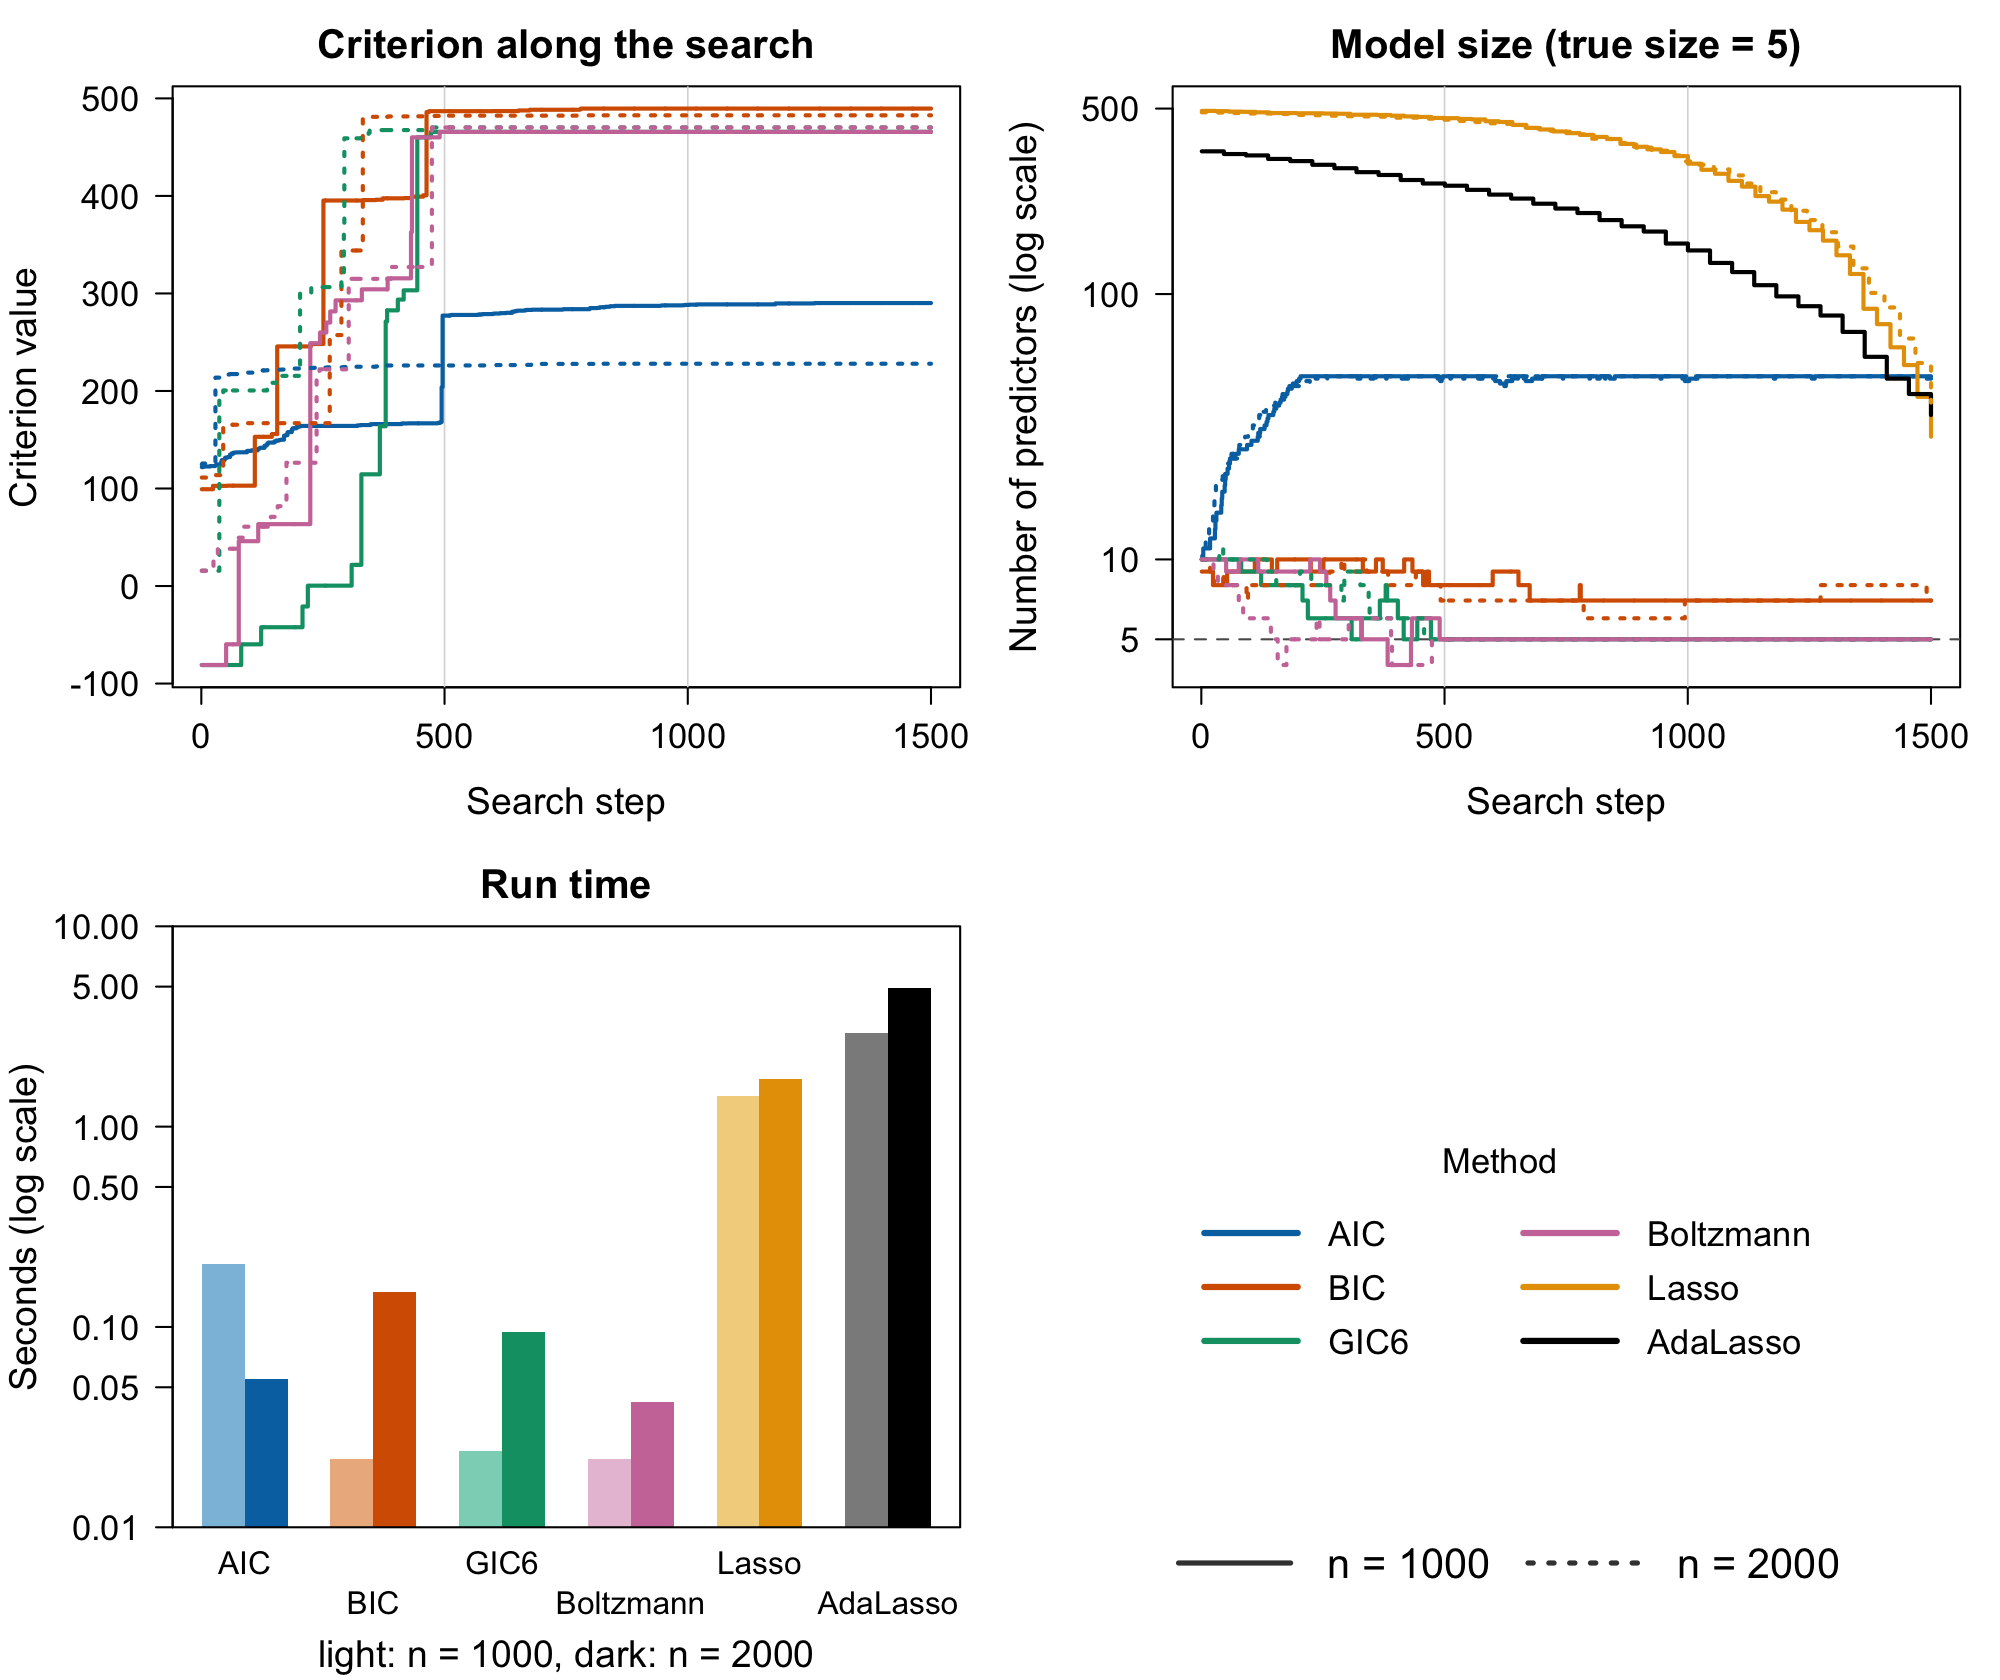
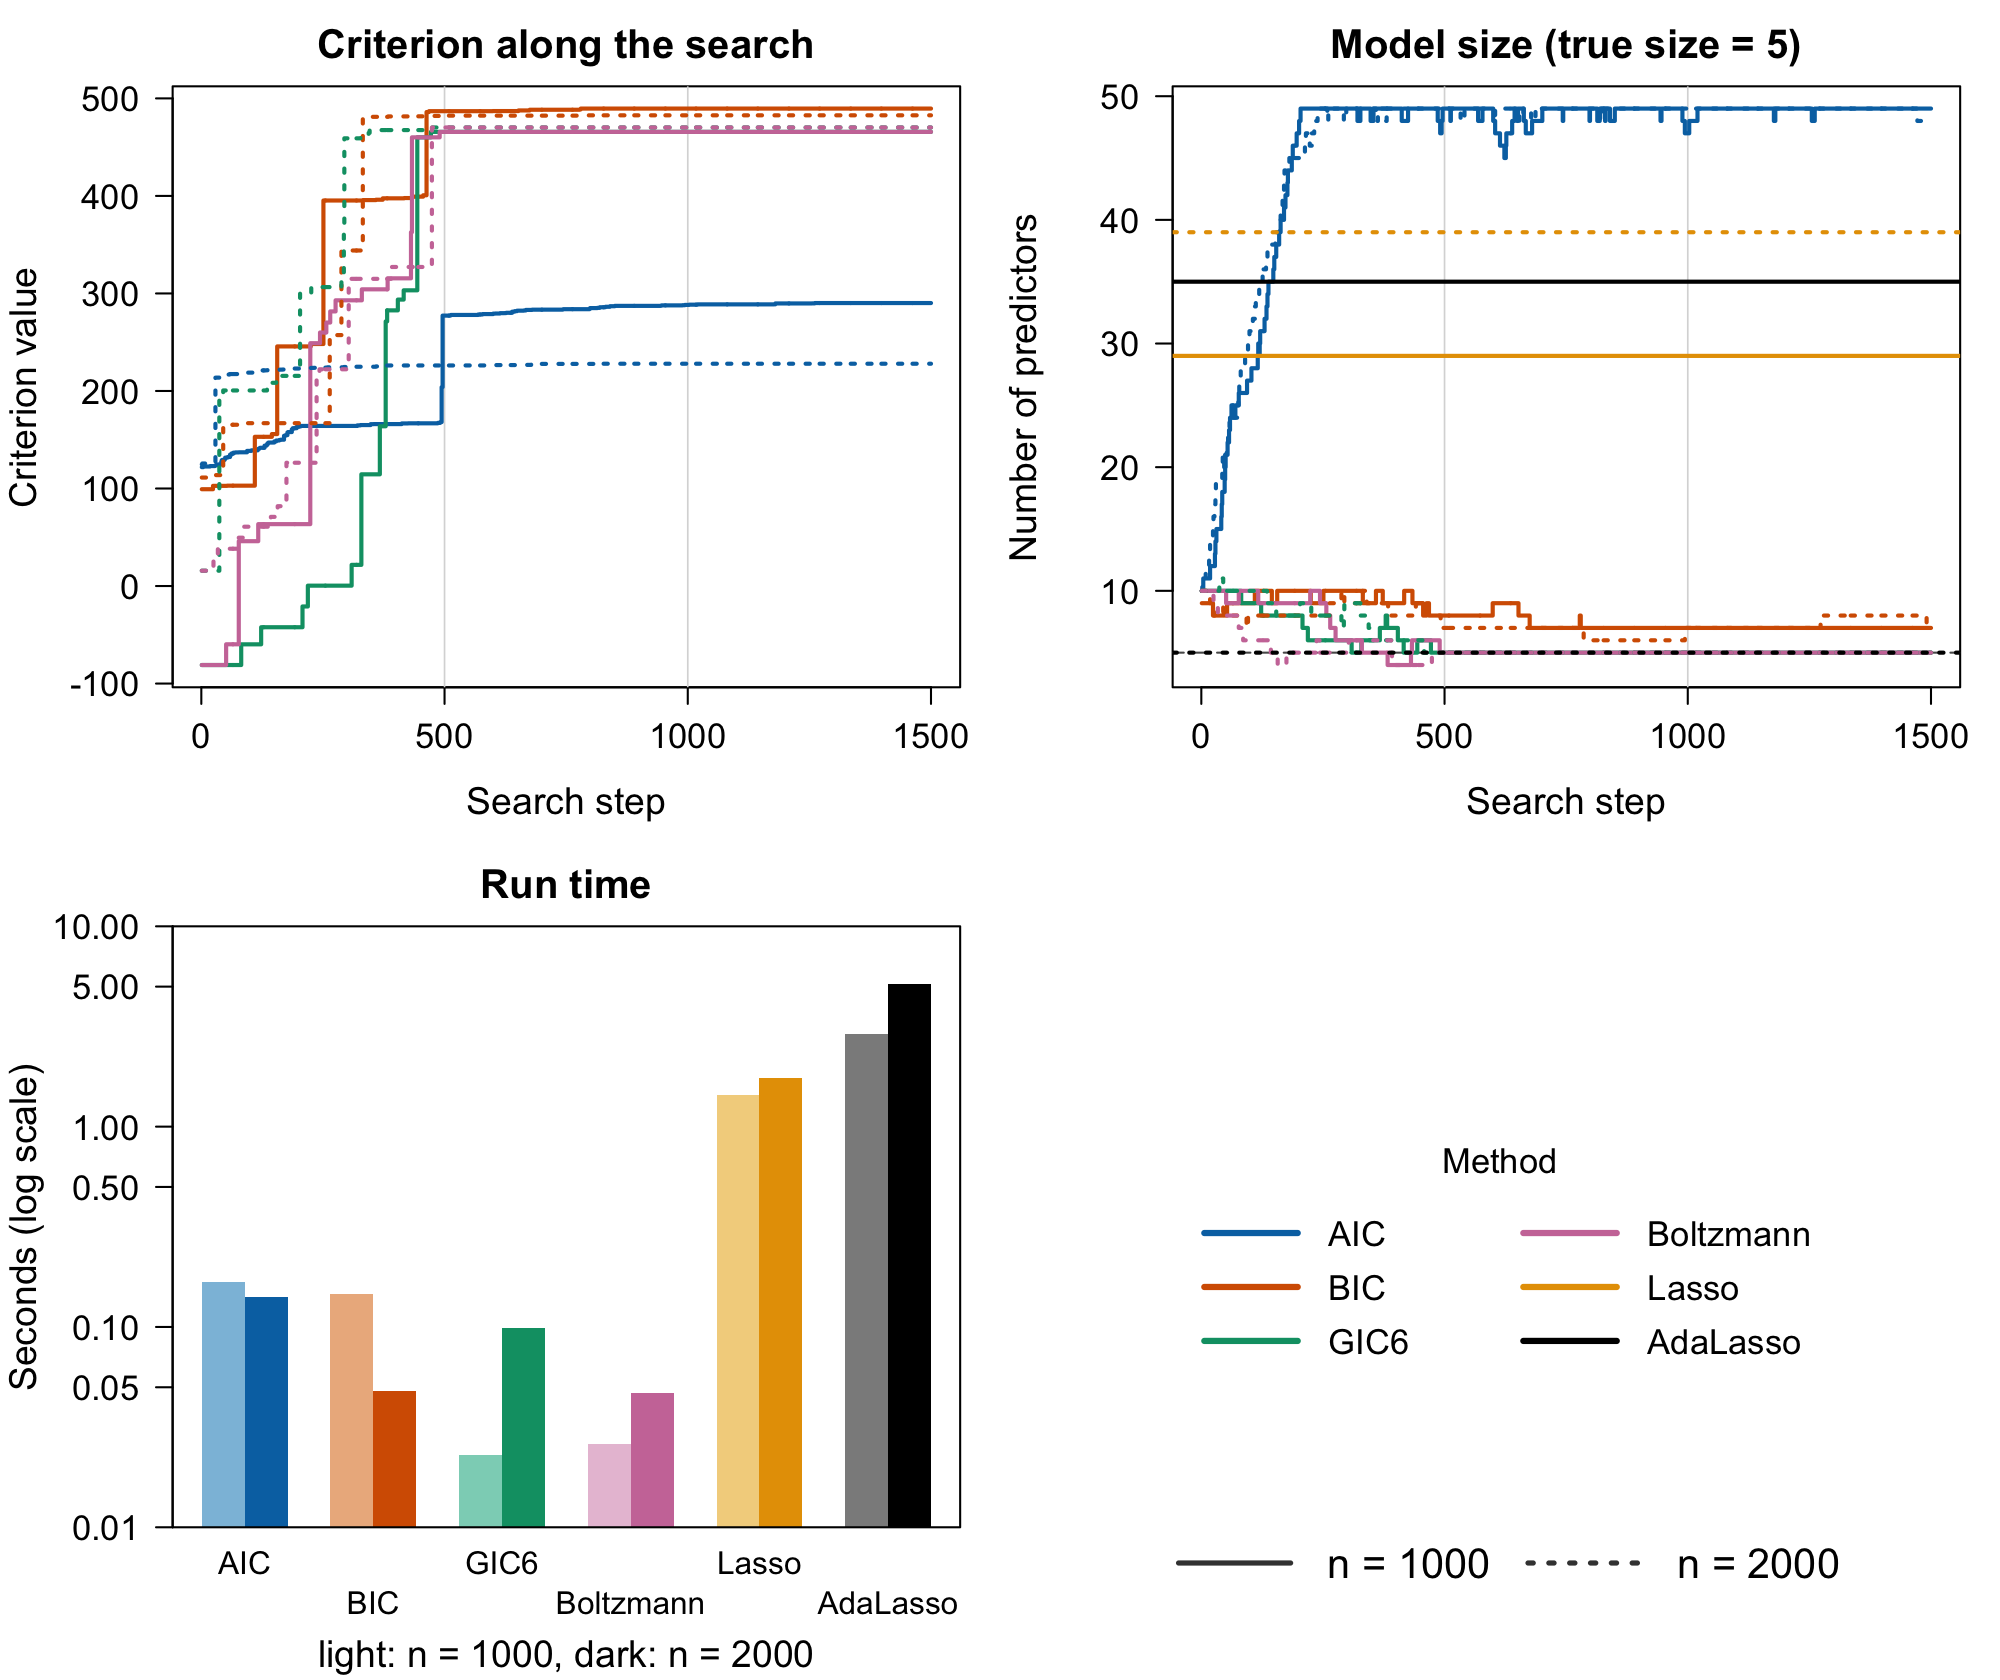
Figures: show the lasso at its cross-validated lambda only
Each lasso and adaptive lasso is drawn as one horizontal line at the number
of predictors it selects at lambda.min, instead of a path along the lambda
grid stretched over the search-step axis.

diff --git a/README.md b/README.md
@@ -167,10 +167,9 @@ For reference, the examples also fit the lasso and the adaptive lasso with the
 Each table reports the size, false positives and false negatives of the
 selected model, and the wall-clock time of each method in seconds. The
 right-hand panel of each
-figure shows the same times, and the middle panel also shows the lasso
-paths: the number of nonzero coefficients along the $\lambda$ grid, from the
-smallest $\lambda$ on the left to the cross-validated $\lambda$ (`lambda.min`)
-on the right, so each path ends at the selected model.
+figure shows the same times, and the middle panel shows the number of
+predictors the lasso and the adaptive lasso select at the cross-validated
+$\lambda$ (`lambda.min`) as horizontal lines.
 
 <!-- Helper functions used in the examples (hidden; run by data-raw/readme_figures.R)
 
@@ -218,10 +217,7 @@ fit_lasso <- function(X, y, family, adaptive = FALSE) {
     args$penalty.factor <- 1 / sqrt(rowSums(lasso_coef(ridge)^2))
   }
   cvfit <- do.call(glmnet::cv.glmnet, args)
-  # path: number of predictors at each lambda from lambda.min down to the
-  # smallest lambda, so it ends at the selected model
-  list(selected = which(rowSums(lasso_coef(cvfit) != 0) > 0),
-       path = cvfit$nzero[cvfit$index["min", 1]:length(cvfit$nzero)])
+  list(selected = which(rowSums(lasso_coef(cvfit) != 0) > 0))
 }
 
 # For each n, run the search once per criterion on the first n observations,
@@ -306,18 +302,18 @@ Y <- LP_to_Y(X, beta, family = "Normal", std = sqrt(sum(beta^2) / 0.71))
 fits <- compare_criteria(X, Y, 1:p, k = p, Nsim = 5)
 selection_table(fits, true_cols)
 #>                 size false_pos false_neg seconds
-#> n1000 AIC        152       147         0    0.61
-#> n1000 BIC          8         3         0    0.59
-#> n1000 GIC6         5         0         0    0.50
-#> n1000 Boltzmann    5         0         0    0.46
-#> n1000 Lasso       22        17         0    0.87
-#> n1000 AdaLasso    25        20         0    1.65
-#> n2000 AIC        116       111         0    0.90
-#> n2000 BIC          9         4         0    0.78
-#> n2000 GIC6         5         0         0    0.68
-#> n2000 Boltzmann    5         0         0    0.64
-#> n2000 Lasso       18        13         0    0.96
-#> n2000 AdaLasso    24        19         0    2.73
+#> n1000 AIC        152       147         0    0.67
+#> n1000 BIC          8         3         0    0.60
+#> n1000 GIC6         5         0         0    0.39
+#> n1000 Boltzmann    5         0         0    0.51
+#> n1000 Lasso       22        17         0    0.85
+#> n1000 AdaLasso    25        20         0    1.62
+#> n2000 AIC        116       111         0    0.74
+#> n2000 BIC          9         4         0    0.75
+#> n2000 GIC6         5         0         0    0.67
+#> n2000 Boltzmann    5         0         0    0.62
+#> n2000 Lasso       18        13         0    0.95
+#> n2000 AdaLasso    24        19         0    2.61
 ```
 
 ![Criteria, model size and run time, linear model with p = 500](man/figures/README-linear-runtime.png)
@@ -344,18 +340,18 @@ fits <- compare_criteria(X, Y_multi, 1:p, k = p, Nsim = 5,
                          lasso_family = "mgaussian", T = 0.05)
 selection_table(fits, true_union)
 #>                 size false_pos false_neg seconds
-#> n1000 AIC        102        80         2    0.66
-#> n1000 BIC         20         0         4    0.63
-#> n1000 GIC6        19         0         5    0.62
-#> n1000 Boltzmann   26         7         5    0.76
-#> n1000 Lasso      129       106         1    2.48
-#> n1000 AdaLasso    21         2         5    5.35
-#> n2000 AIC         69        45         0    0.75
-#> n2000 BIC         20         0         4    0.68
-#> n2000 GIC6        19         0         5    0.67
-#> n2000 Boltzmann   68        47         3    0.71
-#> n2000 Lasso      131       107         0    3.76
-#> n2000 AdaLasso    41        17         0    8.48
+#> n1000 AIC        102        80         2    0.51
+#> n1000 BIC         20         0         4    0.54
+#> n1000 GIC6        19         0         5    0.44
+#> n1000 Boltzmann   26         7         5    0.48
+#> n1000 Lasso      129       106         1    2.39
+#> n1000 AdaLasso    21         2         5    5.16
+#> n2000 AIC         69        45         0    0.82
+#> n2000 BIC         20         0         4    0.72
+#> n2000 GIC6        19         0         5    0.65
+#> n2000 Boltzmann   68        47         3    0.65
+#> n2000 Lasso      131       107         0    3.87
+#> n2000 AdaLasso    41        17         0    8.49
 ```
 
 ![Criteria, model size and run time, multivariate normal response](man/figures/README-multivariate-runtime.png)
@@ -389,18 +385,18 @@ y_pois <- LP_to_Y(X, beta, family = "Poisson")
 fits <- compare_glm(y_pois, y_pois, "poisson", family = "Poisson", T = 0.001)
 selection_table(fits, true_cols)
 #>                 size false_pos false_neg seconds
-#> n1000 AIC         48        43         0    0.34
-#> n1000 BIC          9         4         0    0.04
-#> n1000 GIC6         5         0         0    0.07
-#> n1000 Boltzmann    5         0         0    0.02
-#> n1000 Lasso       29        24         0    1.94
-#> n1000 AdaLasso     5         0         0    2.13
-#> n2000 AIC         49        44         0    0.06
+#> n1000 AIC         48        43         0    0.37
+#> n1000 BIC          9         4         0    0.02
+#> n1000 GIC6         5         0         0    0.06
+#> n1000 Boltzmann    5         0         0    0.07
+#> n1000 Lasso       29        24         0    1.92
+#> n1000 AdaLasso     5         0         0    2.12
+#> n2000 AIC         49        44         0    0.19
 #> n2000 BIC         10         5         0    0.05
-#> n2000 GIC6         5         0         0    0.22
+#> n2000 GIC6         5         0         0    0.09
 #> n2000 Boltzmann    5         0         0    0.04
-#> n2000 Lasso       51        46         0    1.46
-#> n2000 AdaLasso     5         0         0    4.04
+#> n2000 Lasso       51        46         0    1.53
+#> n2000 AdaLasso     5         0         0    4.13
 
 # Coefficients of the GIC6 model for n = 2000, intercept first
 round(Beta_estimate(X[, last_model(fits$n2000$GIC6)], y_pois, family = "Poisson"), 2)
@@ -417,18 +413,18 @@ fits <- compare_glm(y_binom, cbind(10 - y_binom, y_binom), "binomial",
                     family = "Binomial", n_trials = 10)
 selection_table(fits, true_cols)
 #>                 size false_pos false_neg seconds
-#> n1000 AIC         49        46         2    0.21
-#> n1000 BIC          7         2         0    0.02
+#> n1000 AIC         49        46         2    0.17
+#> n1000 BIC          7         2         0    0.15
 #> n1000 GIC6         5         0         0    0.02
-#> n1000 Boltzmann    5         0         0    0.02
-#> n1000 Lasso       29        24         0    1.43
-#> n1000 AdaLasso    35        30         0    2.95
-#> n2000 AIC         48        46         3    0.06
-#> n2000 BIC          7         2         0    0.15
-#> n2000 GIC6         5         0         0    0.09
-#> n2000 Boltzmann    5         0         0    0.04
-#> n2000 Lasso       39        34         0    1.73
-#> n2000 AdaLasso     5         0         0    4.93
+#> n1000 Boltzmann    5         0         0    0.03
+#> n1000 Lasso       29        24         0    1.44
+#> n1000 AdaLasso    35        30         0    2.89
+#> n2000 AIC         48        46         3    0.14
+#> n2000 BIC          7         2         0    0.05
+#> n2000 GIC6         5         0         0    0.10
+#> n2000 Boltzmann    5         0         0    0.05
+#> n2000 Lasso       39        34         0    1.75
+#> n2000 AdaLasso     5         0         0    5.18
 ```
 
 ![Criteria, model size and run time, binomial response](man/figures/README-binomial-runtime.png)
@@ -445,13 +441,13 @@ y_mn <- LP_to_Y(X, B_mn, family = "Multinomial", n_categories = 3)
 fits <- compare_glm(y_mn, NULL, NULL, family = "Multinomial", n_categories = 3)
 selection_table(fits, true_cols)
 #>                 size false_pos false_neg seconds
-#> n1000 AIC         49        47         3    0.13
+#> n1000 AIC         49        47         3    0.15
 #> n1000 BIC          7         2         0    0.03
-#> n1000 GIC6         5         0         0    0.02
+#> n1000 GIC6         5         0         0    0.03
 #> n1000 Boltzmann    5         0         0    0.02
-#> n2000 AIC         49        45         1    0.13
-#> n2000 BIC          6         1         0    0.13
-#> n2000 GIC6         5         0         0    0.04
+#> n2000 AIC         49        45         1    0.16
+#> n2000 BIC          6         1         0    0.05
+#> n2000 GIC6         5         0         0    0.17
 #> n2000 Boltzmann   13         8         0    0.05
 ```
 
@@ -477,13 +473,13 @@ fits <- compare_glm(y_cox, NULL, NULL, family = "Cox", T = 0.001)
 selection_table(fits, true_cols)
 #>                 size false_pos false_neg seconds
 #> n1000 AIC         49        47         3    0.62
-#> n1000 BIC          9         4         0    0.02
+#> n1000 BIC          9         4         0    0.03
 #> n1000 GIC6         5         0         0    0.02
-#> n1000 Boltzmann    5         0         0    0.02
-#> n2000 AIC         49        46         2    0.11
-#> n2000 BIC         11         6         0    0.04
+#> n1000 Boltzmann    5         0         0    0.03
+#> n2000 AIC         49        46         2    0.12
+#> n2000 BIC         11         6         0    0.05
 #> n2000 GIC6         5         0         0    0.04
-#> n2000 Boltzmann    5         0         0    0.05
+#> n2000 Boltzmann    5         0         0    0.04
 
 # Coefficients of the GIC6 model for n = 2000, from survival::coxph()
 round(unname(coef(survival::coxph(y_surv ~ X[, last_model(fits$n2000$GIC6)]))), 2)
